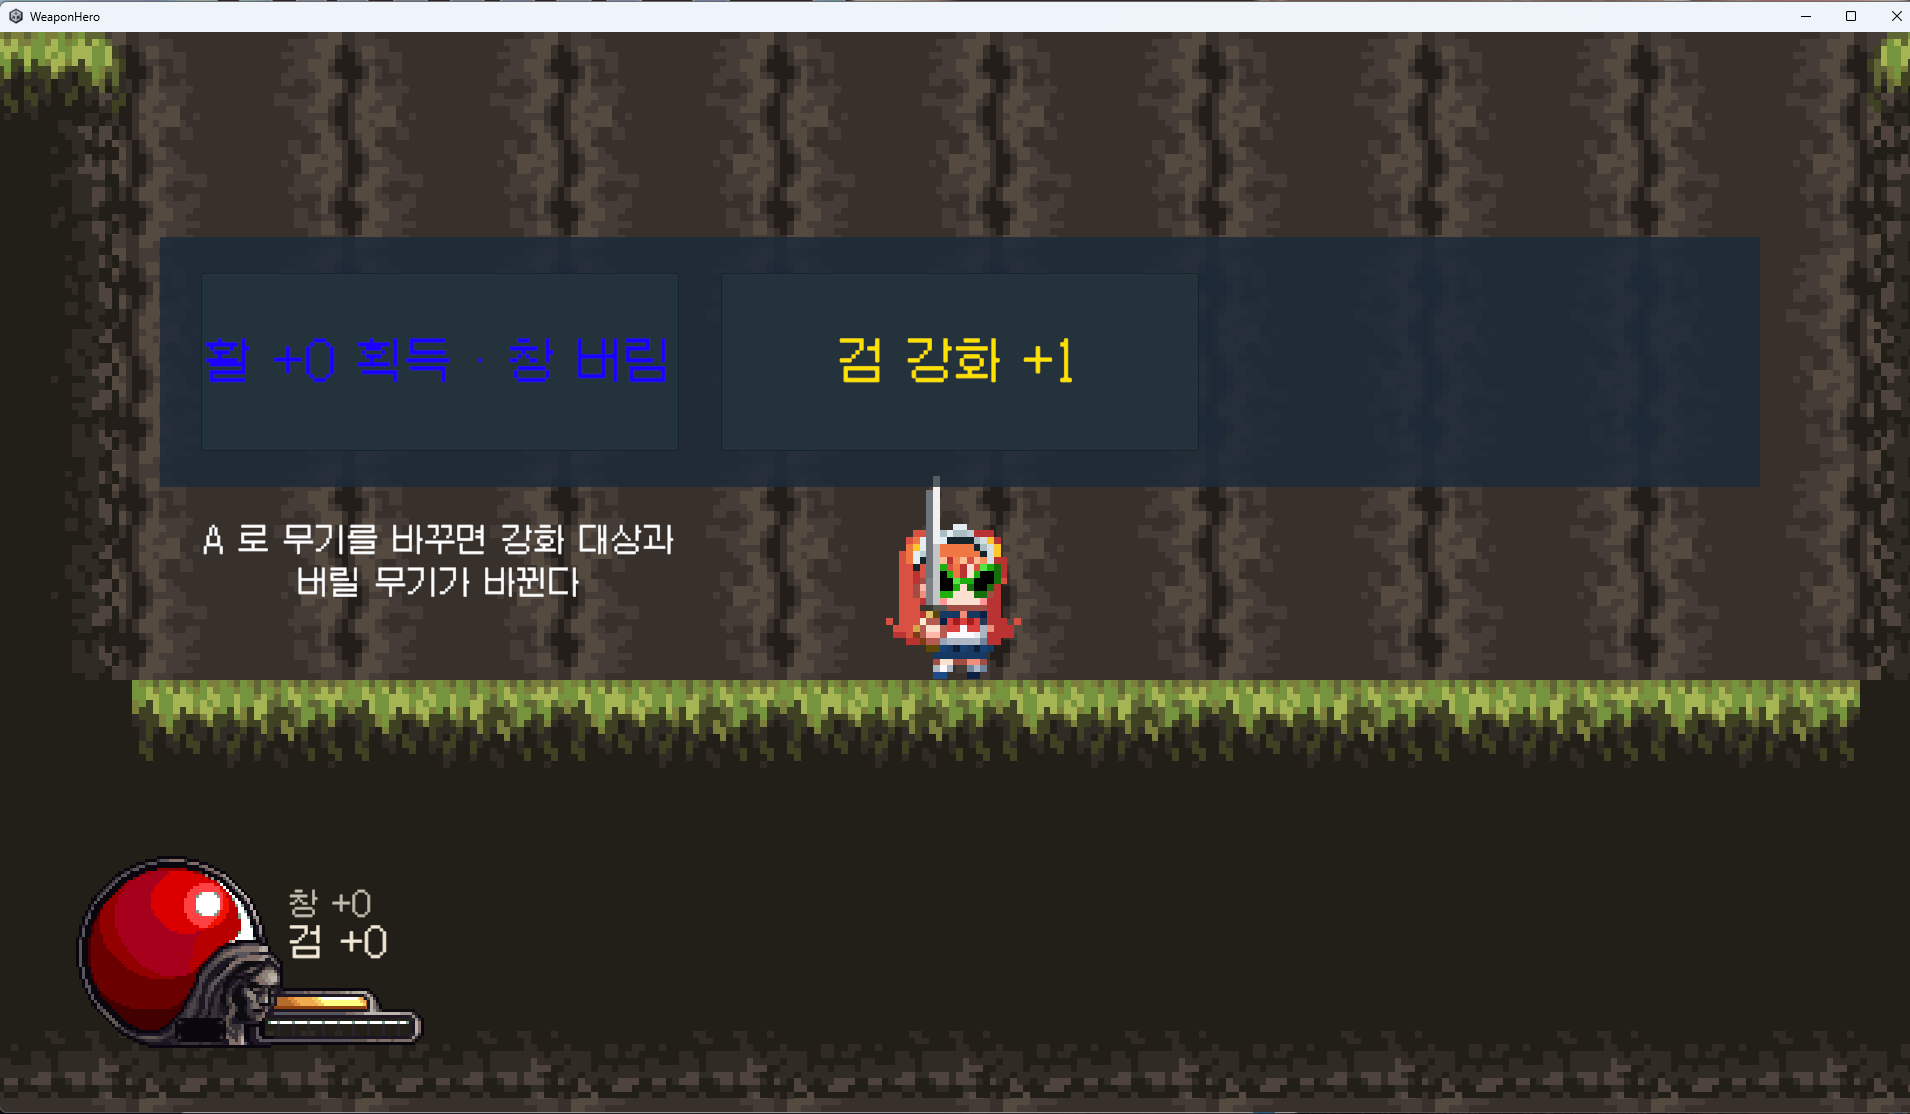
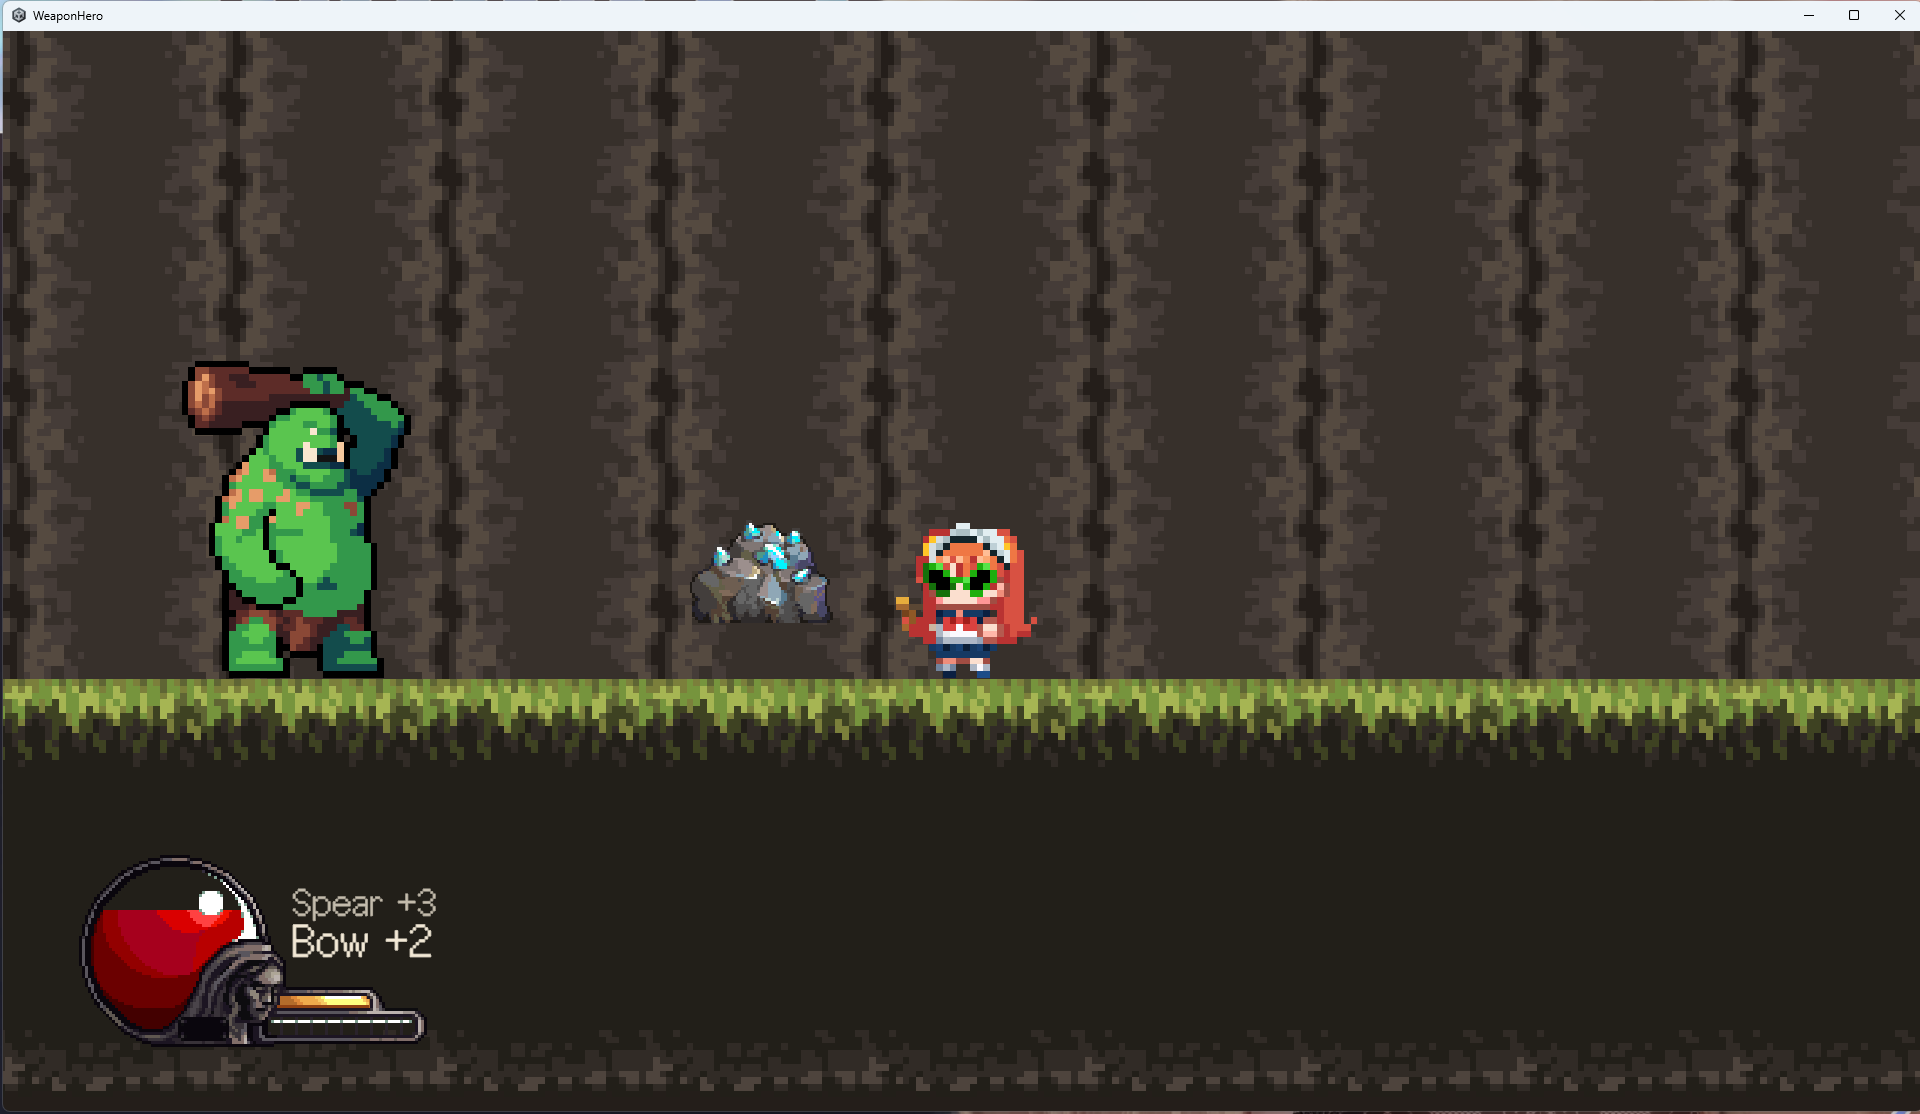
보스전 캡처를 다시 찍고 엑셀 캡처를 넣는다
1회전의 `boss.png` 가 보상 화면 중복이라 비어 있던 자리를 채운다. UI 설명서
화면 10개가 모두 채워졌다.

캡처 한 장에 셋이 같이 잡혔다 — 보스, 던져진 바위(Throw 투사체), 강화가 승계된
HUD(`Spear +3 · Bow +2`). 번호본은 표의 1·2·3 에 맞춰 청록 사각형으로 그렸다.

엑셀 캡처는 두 번 찍었다. 첫 장에 Office 비활성 알림 배너가 걸려 있어서다 —
제출물 캡처에 라이선스 경고가 보이면 내용보다 그게 먼저 눈에 든다. 다시 찍은
것에는 **Fail 다섯이 이슈 번호·중요도·우선순위와 함께** 보인다 (#150 #149 #148
#151 #153).

Changed region(s): [[0.0, 0.0, 1.0, 0.702], [0.0, 0.763, 1.0, 1.0]]

diff --git a/docs/qa/ui-guide.md b/docs/qa/ui-guide.md
@@ -4,7 +4,7 @@
 > [../../Screenshots/](../../Screenshots/), 번호를 매긴 것은
 > [../../Screenshots/numbered/](../../Screenshots/numbered/) 에 있다.
 >
-> **보스전(8장)은 아직 캡처가 없다** — 사정은 8장에 있다.
+> 화면 10개가 모두 채워졌다. 마지막으로 보스전 캡처를 2026-09-27 에 다시 찍었다.
 
 ---
 
@@ -110,18 +110,21 @@
 >
 > **결함 [#149](../../../issues/149)** — 숫자키로 고르면 보상은 적용되는데 **패널이 안 닫힌다.**
 
-## 8. 보스전 — 캡처 없음
+## 8. 보스전 — `boss.png`
 
-**1회전의 `boss.png` 는 보상 화면이 같은 내용으로 한 번 더 저장된 것이다** (`reward.png`
-와 해시가 같다). 다시 찍어 같은 이름으로 덮어쓸 때까지 이 파일은 보스전이 아니다.
-
-아래 표는 새로 찍은 캡처에 번호를 매길 기준이다.
+![보스전](../../Screenshots/numbered/boss.png)
 
 | 번호 | 영역 | 설명 |
 |---|---|---|
 | 1 | 보스 | 오우거. 패턴 3개 — Smash(0~1.8) · Charge(1.6~3.5) · Throw(3~10) |
-| 2 | 플레이어 | |
+| 2 | 플레이어 | 강화 승계가 HUD 에 `Spear +3 · Bow +2` 로 보인다 |
 | 3 | HUD | 전투 화면과 같다 |
+
+> 1번과 2번 사이의 바위는 **Throw 로 날아온 투사체**다. 사거리 3~10 의 패턴이라
+> 보스와 거리가 벌어졌을 때 나온다.
+>
+> **2026-09-27 에 다시 찍었다.** 1회전의 `boss.png` 는 보상 화면이 같은 내용으로 한 번 더
+> 저장된 파일이었다 (`reward.png` 와 해시가 같았다).
 
 > **결함 [#150](../../../issues/150)** — 보스는 **공격 예고 색이 보이지 않는다.** 패턴 셋이 전부
 > 중단 불가(`interruptible: 0`)라 예고가 유일한 회피 신호인데 그것이 안 읽힌다.
